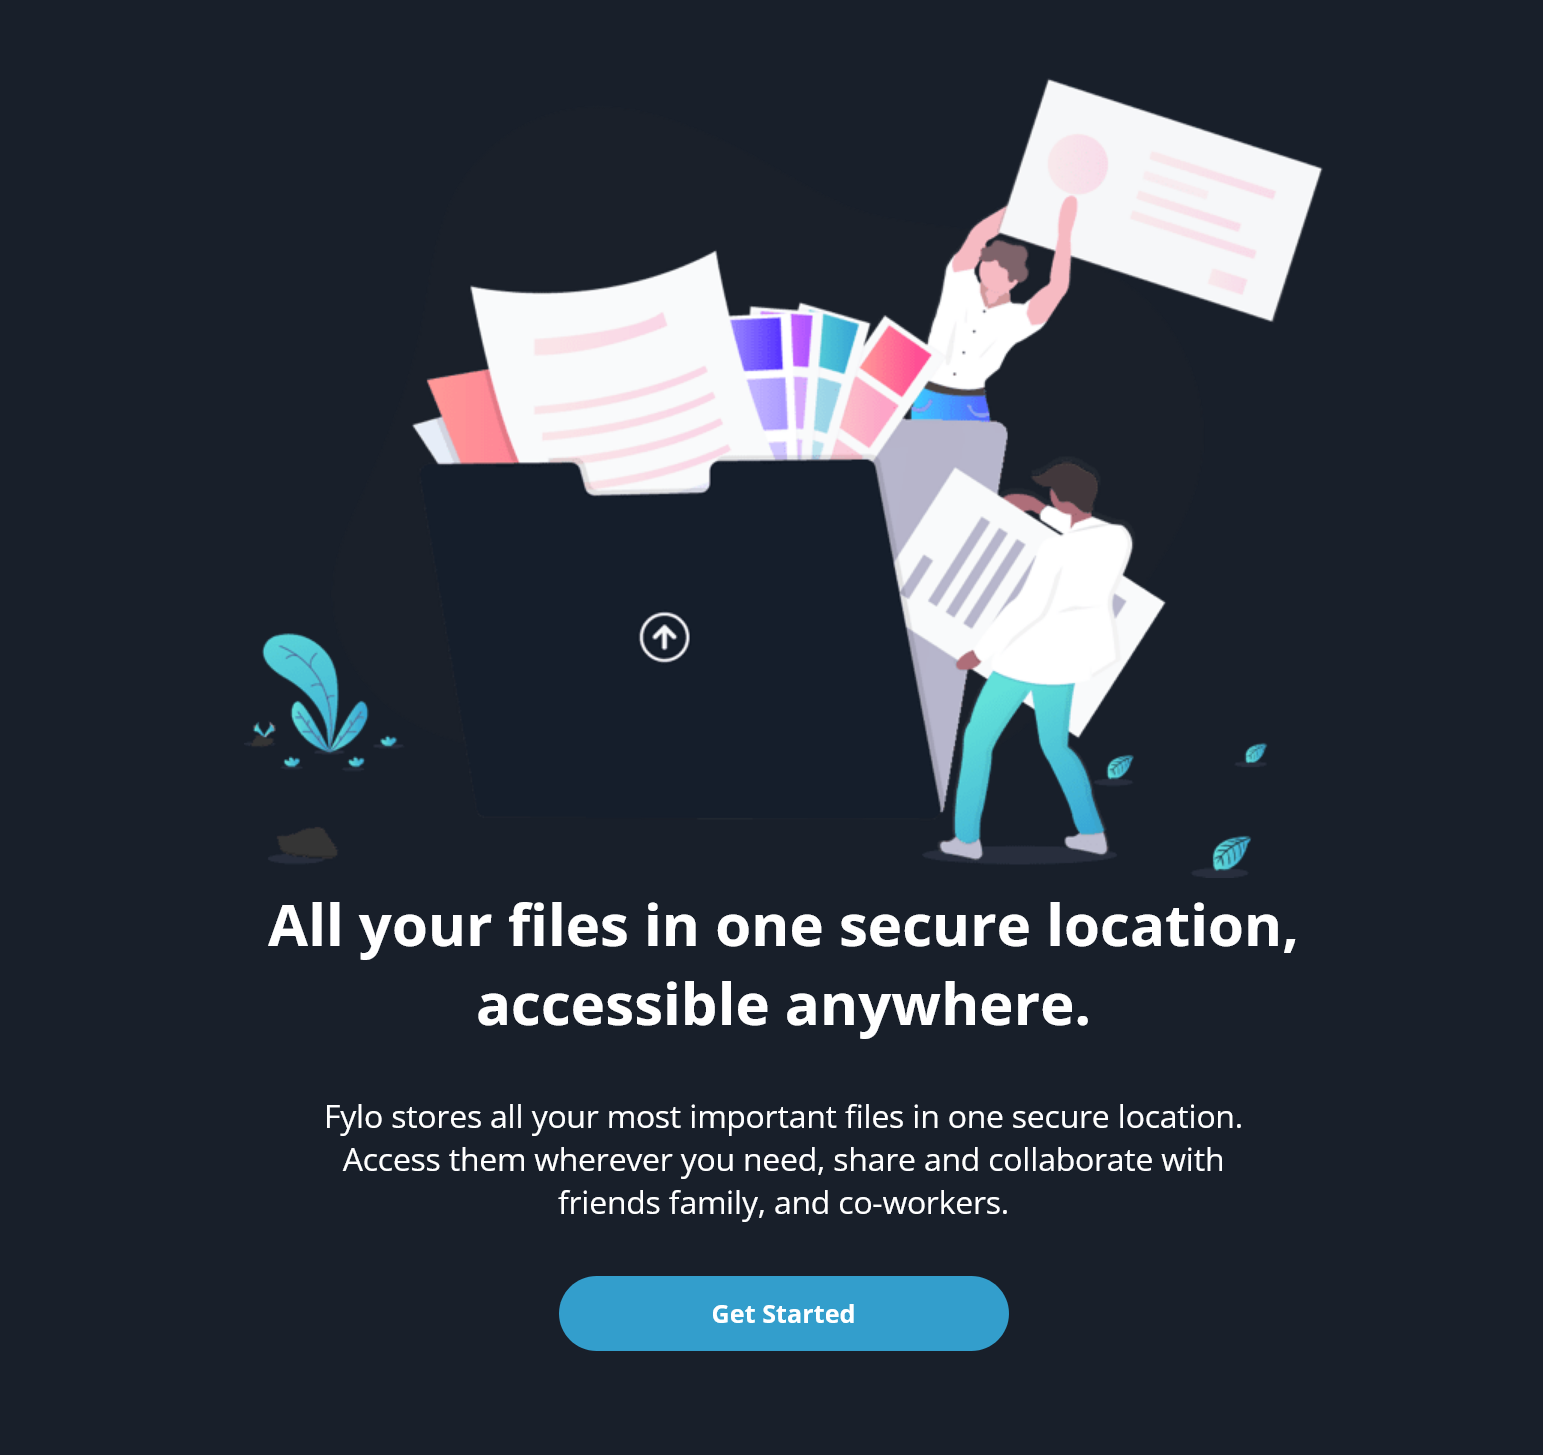
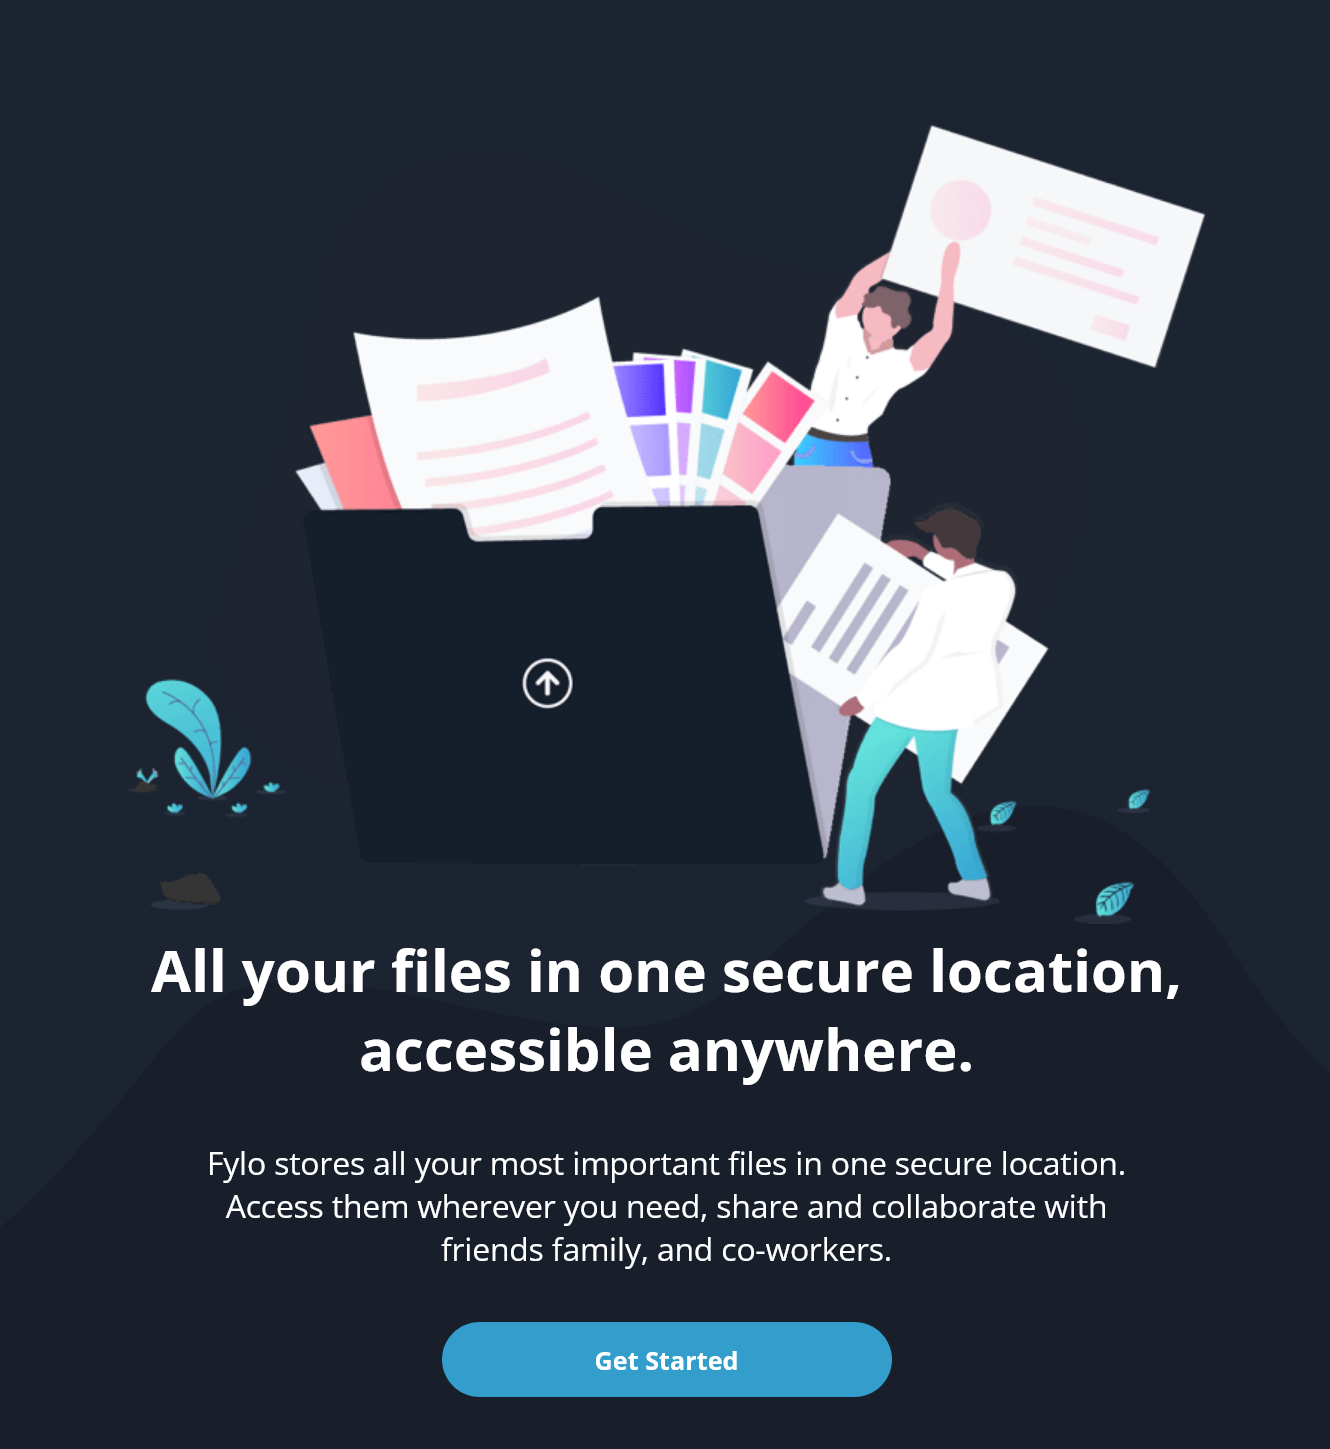
desktop layout done

diff --git a/style.css b/style.css
@@ -1,16 +1,17 @@
 /* 
   TODO:
-    - fix links shift
+    - fix links shift - mbe change gap for smtn else
+    - input error msg
 */
 
 :root {
-  --db-intro:        hsl(217, 28%, 15%);
-  --db-main:         hsl(218, 28%, 13%);
-  --db-footer:       hsl(216, 53%, 9%);
-  --db-testimonials: hsl(219, 30%, 18%);
-  --cyan:            hsl(176, 68%, 64%);
-  --blue:            hsl(198, 60%, 50%);
-  --light-red:       hsl(0, 100%, 63%);
+  --db-intro:         hsl(217, 28%, 15%);
+  --db-main:          hsl(218, 28%, 13%);
+  --db-footer:        hsl(216, 53%, 9%);
+  --db-testimonials:  hsl(219, 30%, 18%);
+  --cyan:             hsl(176, 68%, 64%);
+  --blue:             hsl(198, 60%, 50%);
+  --light-red:        hsl(0, 100%, 63%);
 }
 
 * {
@@ -41,6 +42,7 @@ body {
   /* padding: 8rem 6rem 10rem 6rem; */
   /* padding: 8rem 6rem 0 6rem;   */
   /* padding-top: 8rem; */
+  padding-bottom: 4rem;
   display: flex;
   flex-direction: column;
   row-gap: 10rem;
@@ -58,7 +60,14 @@ body {
 .intro-img,
 .blurb-img {
   max-inline-size: 100%;
-  /* flex-grow: 0; */
+}
+
+.loc-icon,
+.social-link {
+  max-inline-size: 100%;
+  align-self: center;
+  flex-grow: 0;
+  flex-shrink: 0;
 }
 
 .avatar {
@@ -107,7 +116,6 @@ button {
   background-repeat: no-repeat;
 }
 
-
 header {
   background-color: var(--db-intro);
   display: flex;
@@ -122,7 +130,7 @@ header {
 }
 
 .heading-container {
-  padding: 0 10rem 0 10rem;
+  padding: 0 14.5rem 0 14.5rem;
 }
 
 .heading-p {
@@ -135,7 +143,7 @@ header {
 .features {
   display: grid;
   grid-template: 1fr 1fr / 1fr 1fr;
-  column-gap: 6rem;
+  column-gap: 5rem;
   row-gap: 6rem;
 }
 
@@ -184,12 +192,14 @@ header {
 .testimonials {
   display: flex;
   text-align: left;
+  column-gap: 3rem;
+  /* padding-top: 4rem; */
 }
 
-.testimonials {
+/* .testimonials {
   display: flex;
   column-gap: 3rem;
-}
+} */
 
 .card {
   display: flex;
@@ -198,6 +208,11 @@ header {
   background-color: var(--db-testimonials);
   border-radius: 5px;
   row-gap: 2rem;
+  z-index: 1;
+}
+
+.card-p {
+  font-size: 0.97rem;
 }
 
 .card-id {
@@ -213,12 +228,12 @@ header {
 }
 
 .occupation {
-  font-size: 0.7rem;
+  font-size: 0.76rem;
 }
 
 .quotes {
   position: absolute;
-  z-index: -1;
+  /* z-index: -1; */
   transform: translate(-0.5rem, -2.5rem);
   /* left: 0; */
 }
@@ -233,13 +248,13 @@ header {
   display: flex;
   flex-direction: column;
   row-gap: 2rem;
-  border: 1px orange solid;
+  /* border: 1px orange solid; */
   border-radius: 10px;
   background-color: var(--db-intro);
-  padding: 3rem 4rem 2rem 4rem;
-  width: 70%;
+  padding: 3rem 0 1.5rem 0;
+  width: 60%;
   /* place-self: center; */
-  transform: translateY(4rem);
+  transform: translateY(7.5rem);
 }
 
 .signup-header {
@@ -258,7 +273,7 @@ header {
 
 .email-input {
   width: 60%;
-  height: 50px;
+  height: 40px;
   border-radius: 50px;
   border: 0;
   padding-left: 2rem;
@@ -267,9 +282,9 @@ header {
 
 .signup-button {
   width: 25%;
-  height: 50px;
+  height: 40px;
   font-size: 0.9rem;
-  margin-left: 2rem;
+  margin-left: 1.5rem;
 }
 
 .error-message {
@@ -277,32 +292,75 @@ header {
   padding: 0.5rem 0 0 4.6rem;
   font-size: 0.8rem;
   color: var(--light-red);
+  visibility: hidden;
+  
 }
 
 /* FOOTER */
 footer {
   display: flex;
   flex-direction: column;
-  padding: 11rem 7rem 4rem 7rem;
+  padding: 10rem 5rem 4rem 7rem;
   background-color: var(--db-footer);
   row-gap: 4rem;
 }
 
 .footer-container {
   display: grid;
-  grid-template-columns: repeat(5, 1fr);
+  grid-template-columns: 2.2fr 1.5fr 1.4fr 1fr;
   text-align: left;
-  /* padding: 8rem 5rem 3rem 5rem; */
+  column-gap: 4rem;
 }
 
 .footer-logo {
   place-self: start;
+  max-inline-size: 10.5%;
+  height: auto;
+}
+
+.location {
+  display: flex;
+  column-gap: 2.5rem;
+}
+
+.loc-icon {
+  align-self: start;
+}
+
+.contact {
+  display: grid;
+  grid-template: .1fr .1fr / .15fr 1fr;
+  row-gap: 1rem;
+  column-gap: 2.5rem;
+}
+
+.contact-img {
+  align-self: start;
 }
 
 .footer-links {
   display: flex;
   column-gap: 5rem;
 }
+
+.fl-1, .fl-2 {
+  display: flex;
+  flex-direction: column;
+  row-gap: 1rem;
+}
+
+.socials {
+  display: grid;
+  grid-template-columns: repeat(3, .5fr);
+  align-self: start;
+  justify-self: end;
+  column-gap: 1rem;
+  /* place-self: end; */
+}
+
+/* .social-link {
+  width: 40px;
+} */
 
 /* HOVER STATES */
 button:hover {

diff --git a/index.html b/index.html
@@ -124,20 +124,22 @@
           </div> 
         </div>
       </section>
-      <!-- <section class="signup">
-        <h2 class="signup-header">Get early access today</h2>
-        <p class="signup-p">
-          It only takes a minute to sign up and our free starter tier is extremely generous. If you have any 
-          questions, our support team would be happy to help you.
-        </p>
-        <form action="submit" class="send-email">
-          <div class="input">
-            <input type="text" placeholder="email@site.com" class="email-input">
-            <button class="signup-button">Get Started For Free</button>
-          </div>
-          <p class="error-message">Please enter a valid email address</p>
-        </form>
-      </section> -->
+      <!-- <div class="signup-container">
+        <section class="signup">
+          <h2 class="signup-header">Get early access today</h2>
+          <p class="signup-p">
+            It only takes a minute to sign up and our free starter tier is extremely generous. If you have any 
+            questions, our support team would be happy to help you.
+          </p>
+          <form action="" class="send-email">
+            <div class="input">
+              <input type="text" placeholder="email@site.com" class="email-input">
+              <button class="signup-button">Get Started For Free</button>
+            </div>
+            <p class="error-message">Please enter a valid email address</p>
+          </form>
+        </section>
+      </div> -->
     </div>
     <div class="signup-container">
       <section class="signup">
@@ -146,7 +148,7 @@
           It only takes a minute to sign up and our free starter tier is extremely generous. If you have any 
           questions, our support team would be happy to help you.
         </p>
-        <form action="submit" class="send-email">
+        <form action="" class="send-email">
           <div class="input">
             <input type="text" placeholder="email@site.com" class="email-input">
             <button class="signup-button">Get Started For Free</button>
